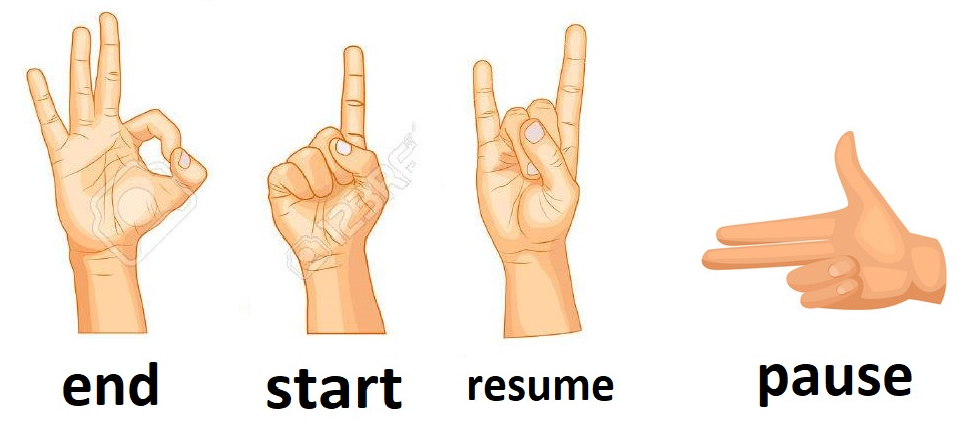
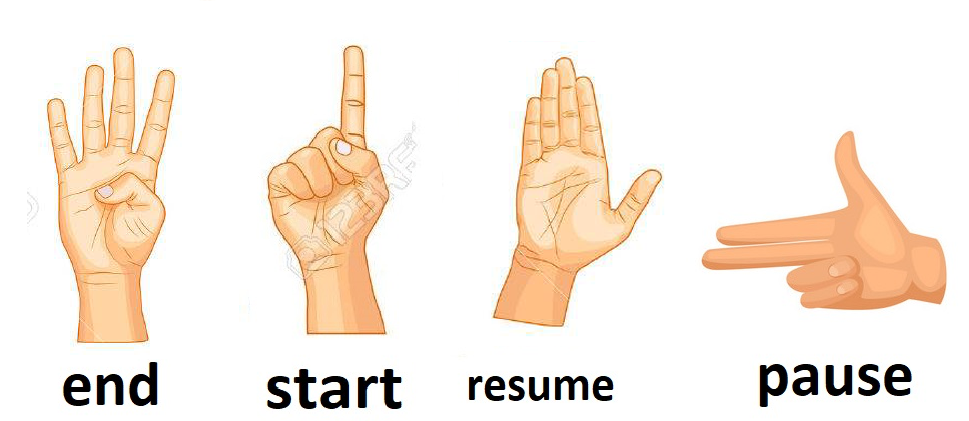
bugs fixed
bugs fixed & end and resume gestures changed

Changed region(s): [[0.4644, 0.0309, 0.6811, 0.8029], [0.0, 0.0309, 0.2167, 0.8337]]

diff --git a/humanSkin.py b/humanSkin.py
@@ -52,17 +52,6 @@ def getHumanSkin(frame):
     #skin color range for YCbCr color space 
     YCrCb_mask = cv2.inRange(img_YCrCb, (0, 135, 85), (255,180,135)) 
     YCrCb_mask = cv2.morphologyEx(YCrCb_mask, cv2.MORPH_OPEN, np.ones((5,5), np.uint8))
-    
-    '''try:
-        positions = np.nonzero(humanSkin)
-        top = positions[0].min()
-        bottom = positions[0].max()
-        left = positions[1].min()
-        right = positions[1].max()
-        humanSkin = humanSkin[top:top + bottom, left:left + right]
-    except:
-        None'''
-
 
     
     return YCrCb_mask
